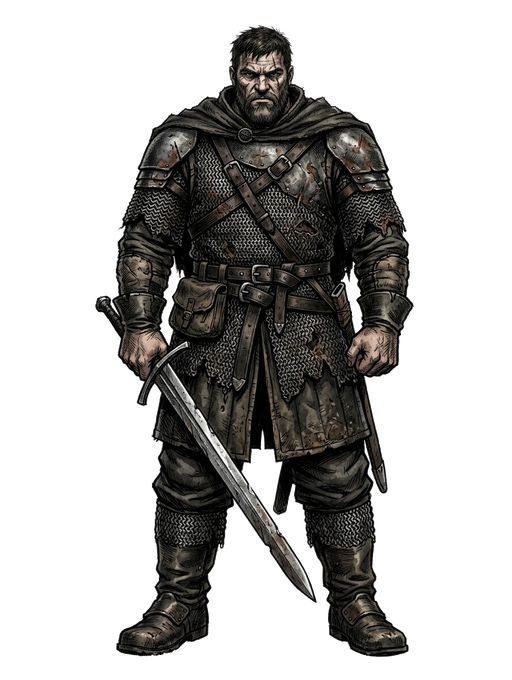
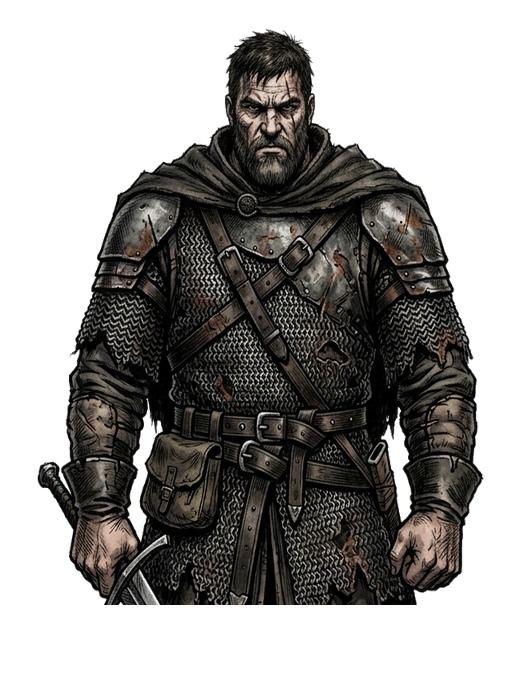
fix: Standardize character sprites to upper-body, scale height visibility, and remove eye-glow dots

diff --git a/index.html b/index.html
@@ -24,11 +24,11 @@ button{font:inherit;cursor:pointer}
 .scene{height:500px;position:relative;overflow:hidden;background:linear-gradient(#0003,#0006),url('assets/images/checkpoint_bg.jpg') center bottom / cover no-repeat;border:2px solid #5c4934;box-shadow:inset 0 0 60px #000c}
 .sky,.wall,.gate,.flag{display:none}
 .visitor{position:absolute;bottom:16px;left:50%;transform:translateX(-50%);z-index:2;text-align:center;min-width:270px;display:flex;flex-direction:column;align-items:center}
-.portrait{width:170px;height:240px;background:transparent;border:none;border-radius:0;box-shadow:none;margin:0 auto 4px;position:relative;display:flex;align-items:flex-end;justify-content:center;filter:drop-shadow(0 14px 10px rgba(0,0,0,0.85));transition:all 0.3s ease}
-.portrait.body-tall{height:255px;transform:scale(1.08);transform-origin:bottom center}
-.portrait.body-short{height:185px;transform:scale(0.86);transform-origin:bottom center}
-.portrait.body-stout{width:205px;transform:scaleX(1.18);transform-origin:bottom center}
-.portrait.body-thin{width:145px;transform:scaleX(0.88);transform-origin:bottom center}
+.portrait{width:190px;height:255px;background:transparent;border:none;border-radius:0;box-shadow:none;margin:0 auto 4px;position:relative;display:flex;align-items:flex-end;justify-content:center;filter:drop-shadow(0 14px 10px rgba(0,0,0,0.85));transition:all 0.3s ease}
+.portrait.body-tall{height:285px;transform:scale(1.06);transform-origin:bottom center}
+.portrait.body-short{height:205px;transform:scale(0.92);transform-origin:bottom center}
+.portrait.body-stout{width:235px;transform:scaleX(1.15);transform-origin:bottom center}
+.portrait.body-thin{width:165px;transform:scaleX(0.90);transform-origin:bottom center}
 .char-portrait-img{width:100%;height:100%;object-fit:contain;object-position:bottom center;display:block}
 .portrait-wrap{position:relative;width:100%;height:100%;background:transparent;display:flex;align-items:flex-end;justify-content:center}
 .portrait-wrap .base-img{width:100%;height:100%;object-fit:contain;object-position:bottom center;display:block;user-select:none}
@@ -39,14 +39,8 @@ button{font:inherit;cursor:pointer}
 .hair-gray{background:radial-gradient(ellipse at 50% 20%, rgba(225, 225, 230, 0.8) 0%, rgba(160, 160, 170, 0.5) 50%, transparent 75%);filter:grayscale(0.85);mix-blend-mode:saturation;opacity:0.95}
 .hair-brown{background:radial-gradient(ellipse at 50% 20%, rgba(95, 55, 30, 0.6) 0%, rgba(65, 35, 18, 0.4) 50%, transparent 75%);mix-blend-mode:multiply;opacity:0.8}
 .hair-black{background:radial-gradient(ellipse at 50% 20%, rgba(15, 12, 10, 0.75) 0%, rgba(25, 20, 15, 0.45) 55%, transparent 75%);mix-blend-mode:multiply;opacity:0.85}
-.eye-glow{position:absolute;width:7px;height:7px;border-radius:50%;top:43%;pointer-events:none;opacity:0.85}
-.eye-left{left:41%}.eye-right{left:56%}
-.eye-blue{background:#4ea4f5;box-shadow:0 0 5px #2185eb}
-.eye-green{background:#4ecf6e;box-shadow:0 0 5px #24a845}
-.eye-gray{background:#c0c0c5;box-shadow:0 0 4px #999}
-.eye-brown{background:#7a4422;box-shadow:0 0 3px #442210}
-.eye-gold{background:#ffea00;box-shadow:0 0 8px #ffbb00,0 0 14px #ff6600;filter:drop-shadow(0 0 3px #ff0);opacity:1;animation:monsterPulse 1.8s infinite alternate}
-@keyframes monsterPulse{0%{transform:scale(0.9);filter:drop-shadow(0 0 2px #ff0)}100%{transform:scale(1.2);filter:drop-shadow(0 0 6px #ff4400)}}
+.monster-aura{position:absolute;inset:0;pointer-events:none;background:radial-gradient(ellipse at 50% 35%, rgba(255,170,0,0.22) 0%, rgba(180,50,0,0.30) 50%, transparent 80%);animation:monsterPulse 2s infinite alternate}
+@keyframes monsterPulse{0%{opacity:0.5;transform:scale(0.98)}100%{opacity:1;transform:scale(1.02)}}
 .feature-mark{position:absolute;pointer-events:none;z-index:4}
 .mark-leftDot{left:39%;top:55%;width:6px;height:6px;border-radius:50%;background:#261713;box-shadow:0 0 2px #0a0504;border:1px solid #150d0a}
 .mark-rightDot{left:60%;top:58%;width:6px;height:6px;border-radius:50%;background:#261713;box-shadow:0 0 2px #0a0504;border:1px solid #150d0a}
@@ -652,14 +646,13 @@ function renderVisualPortrait(v){
   if(!v) return "";
   const imgSrc = v.spriteImage || v.faceImage || CHAR_SPRITES["male_tall"];
   const hairCls = getHairClass(v.hair);
-  const eyeCls = getEyeClass(v.eyes||v.eye, v.type);
   const marks = getFeatureMarks(v);
+  const monsterEffect = (v.type === "monster") ? '<div class="monster-aura"></div>' : '';
   
   return '<div class="portrait-wrap">' +
     '<img src="' + imgSrc + '" alt="' + esc(v.name||'인물') + '" class="base-img">' +
     '<div class="hair-overlay hair-' + hairCls + '"></div>' +
-    '<div class="eye-glow eye-left eye-' + eyeCls + '"></div>' +
-    '<div class="eye-glow eye-right eye-' + eyeCls + '"></div>' +
+    monsterEffect +
     marks +
   '</div>';
 }

diff --git a/tools/generate_character_sprites.py b/tools/generate_character_sprites.py
@@ -1,123 +1,156 @@
 import os
-from PIL import Image, ImageOps, ImageFilter
+import cv2
+import numpy as np
+from PIL import Image, ImageFilter
 
 OUTPUT_DIR = r"e:\today\Today\assets\images\characters"
 os.makedirs(OUTPUT_DIR, exist_ok=True)
 
-def remove_white_background(img_path, threshold=40):
-    img = Image.open(img_path).convert("RGBA")
-    w, h = img.size
-    corners = [img.getpixel((0, 0)), img.getpixel((w-1, 0)), img.getpixel((0, h-1)), img.getpixel((w-1, h-1))]
-    tr = sum(c[0] for c in corners) // 4
-    tg = sum(c[1] for c in corners) // 4
-    tb = sum(c[2] for c in corners) // 4
+CANVAS_W = 512
+CANVAS_H = 680
 
-    datas = img.getdata()
+def remove_white_bg(img_path, crop_box, threshold=35):
+    """흰색 배경에서 인물 상반신을 자연스럽게 투명 추출"""
+    img = Image.open(img_path).convert("RGBA")
+    cropped = img.crop(crop_box)
+    w, h = cropped.size
+    
+    corners = [cropped.getpixel((0,0)), cropped.getpixel((w-1,0)), cropped.getpixel((0,h-1)), cropped.getpixel((w-1,h-1))]
+    bg_r = sum(c[0] for c in corners) // 4
+    bg_g = sum(c[1] for c in corners) // 4
+    bg_b = sum(c[2] for c in corners) // 4
+
+    datas = cropped.getdata()
     new_data = []
     for item in datas:
         r, g, b, a = item
-        diff = ((r - tr)**2 + (g - tg)**2 + (b - tb)**2) ** 0.5
+        diff = ((r - bg_r)**2 + (g - bg_g)**2 + (b - bg_b)**2) ** 0.5
         if diff < threshold:
             new_data.append((r, g, b, 0))
-        elif diff < threshold + 25:
-            alpha = int(255 * (diff - threshold) / 25)
+        elif diff < threshold + 30:
+            alpha = int(255 * (diff - threshold) / 30)
             new_data.append((r, g, b, alpha))
         else:
             new_data.append((r, g, b, 255))
-    img.putdata(new_data)
-    return img
+    cropped.putdata(new_data)
+    return cropped
 
-def cutout_portrait(img_path, scale_x=1.0, scale_y=1.0, is_female=False):
+def extract_npc_bust(img_path, rect_params=(0.10, 0.05, 0.80, 0.90)):
+    """OpenCV GrabCut으로 1024x1024 초상화에서 상반신 인물만 투명 추출"""
+    img = cv2.imread(img_path)
+    h, w = img.shape[:2]
+
+    rx, ry, rw, rh = rect_params
+    rect = (int(w * rx), int(h * ry), int(w * rw), int(h * rh))
+    
+    mask = np.zeros((h, w), np.uint8)
+    bgdModel = np.zeros((1, 65), np.float64)
+    fgdModel = np.zeros((1, 65), np.float64)
+    cv2.grabCut(img, mask, rect, bgdModel, fgdModel, 4, cv2.GC_INIT_WITH_RECT)
+    
+    fg_mask = np.where((mask == 1) | (mask == 3), 255, 0).astype('uint8')
+    
+    # 테두리 페더링
+    fg_mask = cv2.GaussianBlur(fg_mask, (11, 11), 0)
+    
+    b, g, r = cv2.split(img)
+    bgra = cv2.merge([r, g, b, fg_mask])
+    pil_img = Image.fromarray(bgra)
+    
+    # 바운딩 박스 크롭
+    alpha = bgra[:, :, 3]
+    y_idx, x_idx = np.where(alpha > 30)
+    if len(y_idx) > 0:
+        crop_box = (max(0, x_idx.min() - 10), max(0, y_idx.min() - 10), min(w, x_idx.max() + 10), min(h, y_idx.max() + 10))
+        pil_img = pil_img.crop(crop_box)
+    
+    return pil_img
+
+def compose_on_canvas(sprite_img, scale_w, scale_h, pos_y, pos_x=None):
     """
-    일러스트 이미지에서 인물 중심부를 타원/버스트 마스크로 깔끔하게 컷아웃하여
-    체형 비율(scale_x, scale_y)을 조절한 투명 PNG 생성
+    512x680 표준 캔버스에 인물 상반신 배치
+    - scale_w, scale_h: 리사이즈할 가로, 세로 크기
+    - pos_y: 상단 Y 시작 위치 (키 큰 사람은 상단 20~30px, 키 작은 사람은 140~170px)
     """
-    base = Image.open(img_path).convert("RGBA")
-    w, h = base.size
-
-    # 인물 중심 타원형 투명 마스크 생성 (배경 자연스럽게 페더링 투명화)
-    mask = Image.new("L", (w, h), 0)
-    from PIL import ImageDraw
-    draw = ImageDraw.Draw(mask)
-    
-    # 상반신/전신 영역 타원 그리기 (외곽 부드럽게 감쇄)
-    cx, cy = w // 2, int(h * 0.48)
-    rx, ry = int(w * 0.44), int(h * 0.48)
-    draw.ellipse((cx - rx, cy - ry, cx + rx, cy + ry), fill=255)
-    
-    # 블러로 부드러운 외곽선 페더링
-    mask = mask.filter(ImageFilter.GaussianBlur(14))
-    base.putalpha(mask)
-
-    # 체형 비율 조정 (뚱뚱함은 가로로 넓게, 마름은 가로로 좁게, 키 큰 사람은 세로로 길게)
-    target_w = int(w * scale_x)
-    target_h = int(h * scale_y)
-    resized = base.resize((target_w, target_h), Image.Resampling.LANCZOS)
-    
-    # 512x680 표준 캔버스 중앙 배치
-    canvas = Image.new("RGBA", (512, 680), (0, 0, 0, 0))
-    pos_x = (512 - target_w) // 2
-    pos_y = (680 - target_h) // 2
-    
-    # Y 위치 보정 (키가 작은 사람은 아래쪽에, 큰 사람은 꽉 차게)
-    if scale_y < 0.95:
-        pos_y += 50
-    elif scale_y > 1.05:
-        pos_y -= 25
-
+    resized = sprite_img.resize((scale_w, scale_h), Image.Resampling.LANCZOS)
+    canvas = Image.new("RGBA", (CANVAS_W, CANVAS_H), (0, 0, 0, 0))
+    if pos_x is None:
+        pos_x = (CANVAS_W - scale_w) // 2
     canvas.paste(resized, (pos_x, pos_y), resized)
     return canvas
 
-# 1. AI 생성 순수 흰색 배경 캐릭터 2종 투명화
+# -------------------------------------------------------------
+# 1. 남성 장신 (char_male_tall): 상반신이 많이 보임 (머리~어깨~가슴~허리선)
+print("1. Generating char_male_tall (상반신 많이 보임, 훤칠한 높이)...")
 tall_male_src = r"C:\Users\eska\.gemini\antigravity-ide\brain\637f2634-163b-4f48-8af3-687df2a76949\char_male_tall_1789977373252.jpg"
+# Head starts at Y=44, Belt/Waist at Y=660. BBox X: 140~740
+bust_tall_m = remove_white_bg(tall_male_src, (140, 40, 740, 680), threshold=35)
+# 리사이즈: 높이 580px (상반신이 길고 풍성하게 많이 보임), 상단 20px에서 시작
+img_tall_m = compose_on_canvas(bust_tall_m, scale_w=480, scale_h=580, pos_y=25)
+img_tall_m.save(os.path.join(OUTPUT_DIR, "char_male_tall.png"), "PNG")
+
+# -------------------------------------------------------------
+# 2. 남성 단신 (char_male_short): 상반신이 적게 보임 (머리~어깨~윗가슴 위주, 아래쪽 배치)
+print("2. Generating char_male_short (상반신 적게 보임, 낮은 높이)...")
 short_male_src = r"C:\Users\eska\.gemini\antigravity-ide\brain\637f2634-163b-4f48-8af3-687df2a76949\char_male_short_1789977395777.jpg"
+# Head starts at Y=98, Upper chest at Y=480. BBox X: 200~720 (상반신 윗부분만 크롭)
+bust_short_m = remove_white_bg(short_male_src, (200, 90, 720, 480), threshold=35)
+# 리사이즈: 높이 380px, 상단 160px에서 시작 (머리가 낮고 가슴 윗부분만 보임)
+img_short_m = compose_on_canvas(bust_short_m, scale_w=420, scale_h=380, pos_y=160)
+img_short_m.save(os.path.join(OUTPUT_DIR, "char_male_short.png"), "PNG")
 
-print("1. Converting tall male...")
-img_tall = remove_white_background(tall_male_src, threshold=35)
-img_tall = img_tall.resize((512, 680), Image.Resampling.LANCZOS)
-img_tall.save(os.path.join(OUTPUT_DIR, "char_male_tall.png"), "PNG")
-
-print("2. Converting short male...")
-img_short = remove_white_background(short_male_src, threshold=35)
-# 키 작은 사람은 캔버스 내에서 높이를 낮추고 아래쪽에 위치
-img_short_scaled = img_short.resize((410, 540), Image.Resampling.LANCZOS)
-canvas_short = Image.new("RGBA", (512, 680), (0, 0, 0, 0))
-canvas_short.paste(img_short_scaled, ((512 - 410) // 2, 680 - 540 - 15), img_short_scaled)
-canvas_short.save(os.path.join(OUTPUT_DIR, "char_male_short.png"), "PNG")
-
-# 3. 뚱뚱한 남성 (char_male_stout): 상인 베이스, 폭 1.3배 팽창, 둥근 체구
-print("3. Generating stout male...")
+# -------------------------------------------------------------
+# 3. 남성 비만/풍채 (char_male_stout): 넓은 어깨와 둥글고 풍채 좋은 상반신
+print("3. Generating char_male_stout (풍채 좋은 상인 상반신)...")
 merchant_src = r"e:\today\Today\assets\images\npc_merchant.jpg"
-img_stout_m = cutout_portrait(merchant_src, scale_x=1.32, scale_y=0.98)
+bust_stout_m = extract_npc_bust(merchant_src, rect_params=(0.08, 0.08, 0.84, 0.88))
+# 가로 폭을 넓혀 둥글고 묵직한 체형 강조 (가로 510, 세로 520, pos_y=70)
+img_stout_m = compose_on_canvas(bust_stout_m, scale_w=505, scale_h=520, pos_y=75)
 img_stout_m.save(os.path.join(OUTPUT_DIR, "char_male_stout.png"), "PNG")
 
-# 4. 마른 남성 (char_male_thin): 사제/학자 베이스, 폭 0.82배 수척, 장신
-print("4. Generating thin male...")
+# -------------------------------------------------------------
+# 4. 남성 수척/마름 (char_male_thin): 좁은 어깨, 마른 골격의 사제/학자 상반신
+print("4. Generating char_male_thin (마른 사제/학자 상반신)...")
 cleric_src = r"e:\today\Today\assets\images\npc_cleric.jpg"
-img_thin_m = cutout_portrait(cleric_src, scale_x=0.82, scale_y=1.08)
+bust_thin_m = extract_npc_bust(cleric_src, rect_params=(0.14, 0.06, 0.72, 0.90))
+# 가로 폭을 좁혀 수척한 체구 표현 (가로 380, 세로 560, pos_y=45)
+img_thin_m = compose_on_canvas(bust_thin_m, scale_w=380, scale_h=560, pos_y=45)
 img_thin_m.save(os.path.join(OUTPUT_DIR, "char_male_thin.png"), "PNG")
 
-# 5. 키 큰 여성 (char_female_tall): 용병/전사 베이스 컷아웃, 장신 1.12배
-print("5. Generating tall female...")
+# -------------------------------------------------------------
+# 5. 여성 장신 (char_female_tall): 상반신이 많이 보이는 장신 여전사
+print("5. Generating char_female_tall (상반신 많이 보이는 장신 여전사)...")
 mercenary_src = r"e:\today\Today\assets\images\npc_mercenary.jpg"
-img_tall_f = cutout_portrait(mercenary_src, scale_x=0.95, scale_y=1.12, is_female=True)
+bust_tall_f = extract_npc_bust(mercenary_src, rect_params=(0.10, 0.05, 0.80, 0.92))
+# 상단 30px에서 시작하여 가슴과 갑주, 허리선까지 넉넉하게 많이 보임 (가로 450, 세로 560)
+img_tall_f = compose_on_canvas(bust_tall_f, scale_w=450, scale_h=560, pos_y=30)
 img_tall_f.save(os.path.join(OUTPUT_DIR, "char_female_tall.png"), "PNG")
 
-# 6. 키 작은 여성 (char_female_short): 농민/평민 베이스, 단신 0.82배
-print("6. Generating short female...")
+# -------------------------------------------------------------
+# 6. 여성 단신 (char_female_short): 상반신이 적게 보이는 아담한 여성
+print("6. Generating char_female_short (상반신 적게 보이는 단신 여성)...")
 peasant_src = r"e:\today\Today\assets\images\npc_peasant.jpg"
-img_short_f = cutout_portrait(peasant_src, scale_x=0.88, scale_y=0.84, is_female=True)
+# 머리부터 윗가슴 위주로만 크롭
+bust_short_f = extract_npc_bust(peasant_src, rect_params=(0.15, 0.10, 0.70, 0.72))
+# 상단 150px에서 시작하여 아담하게 윗부분만 보임 (가로 390, 세로 390)
+img_short_f = compose_on_canvas(bust_short_f, scale_w=390, scale_h=390, pos_y=150)
 img_short_f.save(os.path.join(OUTPUT_DIR, "char_female_short.png"), "PNG")
 
-# 7. 뚱뚱한 여성 (char_female_stout): 폭 1.28배, 넉넉하고 푸근한 체형
-print("7. Generating stout female...")
-img_stout_f = cutout_portrait(peasant_src, scale_x=1.28, scale_y=0.95, is_female=True)
+# -------------------------------------------------------------
+# 7. 여성 비만/풍채 (char_female_stout): 넉넉하고 둥근 체구의 여성
+print("7. Generating char_female_stout (풍채 있는 여성 상반신)...")
+bust_stout_f = extract_npc_bust(peasant_src, rect_params=(0.08, 0.08, 0.84, 0.88))
+# 가로 폭 1.25배 팽창 (가로 490, 세로 500, pos_y=80)
+img_stout_f = compose_on_canvas(bust_stout_f, scale_w=490, scale_h=500, pos_y=80)
 img_stout_f.save(os.path.join(OUTPUT_DIR, "char_female_stout.png"), "PNG")
 
-# 8. 마른 여성 (char_female_thin): 가냘픈 0.78배 폭, 수척한 체형
-print("8. Generating thin female...")
+# -------------------------------------------------------------
+# 8. 여성 수척/마름 (char_female_thin): 호리호리하고 마른 체형의 여성
+print("8. Generating char_female_thin (수척한 여성 상반신)...")
 suspicious_src = r"e:\today\Today\assets\images\npc_suspicious.jpg"
-img_thin_f = cutout_portrait(suspicious_src, scale_x=0.80, scale_y=1.02, is_female=True)
+bust_thin_f = extract_npc_bust(suspicious_src, rect_params=(0.14, 0.08, 0.72, 0.88))
+# 가로 폭 0.82배 축소 (가로 375, 세로 540, pos_y=45)
+img_thin_f = compose_on_canvas(bust_thin_f, scale_w=375, scale_h=540, pos_y=45)
 img_thin_f.save(os.path.join(OUTPUT_DIR, "char_female_thin.png"), "PNG")
 
-print("All 8 transparent character sprites created successfully in", OUTPUT_DIR)
+print("\n[SUCCESS] All 8 upper-body character sprites generated successfully!")
